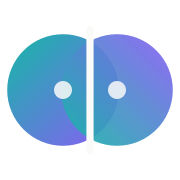
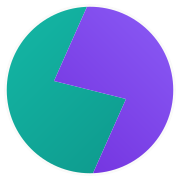
feat: replace the mark with a cracked coin
The old mark (two circles split by a straight bar) didn't say anything
about the product. A coin split by a jagged, lightning-bolt crack ties
"rachar" (to crack/split) directly to money, and stays legible down to
a 32px favicon. Wordmark is unchanged. Regenerated the derived
favicon, apple-touch-icon and OG image from the new mark.

diff --git a/src/components/Logo.tsx b/src/components/Logo.tsx
@@ -4,19 +4,26 @@ export function Logo({ className = 'h-8 w-auto' }: { className?: string }) {
       <defs>
         <linearGradient id="logo-g1" x1="0%" y1="0%" x2="100%" y2="100%">
           <stop offset="0%" stopColor="#14B8A6" />
-          <stop offset="100%" stopColor="#8B5CF6" />
+          <stop offset="100%" stopColor="#0D9488" />
         </linearGradient>
         <linearGradient id="logo-g2" x1="100%" y1="0%" x2="0%" y2="100%">
           <stop offset="0%" stopColor="#8B5CF6" />
-          <stop offset="100%" stopColor="#14B8A6" />
+          <stop offset="100%" stopColor="#6D28D9" />
         </linearGradient>
+        {/* A coin split by a jagged crack — "rachar" (to crack/split) a coin,
+            standing in for splitting a bill. Both halves share this zigzag
+            boundary so they tile the circle with no gap or overlap. */}
+        <clipPath id="logo-crack-left">
+          <path d="M0 0 H100 L60 90 L140 110 L100 188 H0 Z" />
+        </clipPath>
+        <clipPath id="logo-crack-right">
+          <path d="M200 0 H100 L60 90 L140 110 L100 188 H200 Z" />
+        </clipPath>
       </defs>
-      <g transform="translate(20,20)">
-        <circle cx="70" cy="80" r="62" fill="url(#logo-g1)" />
-        <circle cx="150" cy="80" r="62" fill="url(#logo-g2)" opacity="0.92" />
-        <rect x="106" y="8" width="8" height="144" rx="4" fill="var(--bg)" />
-        <circle cx="70" cy="80" r="10" fill="var(--bg)" opacity="0.85" />
-        <circle cx="150" cy="80" r="10" fill="var(--bg)" opacity="0.85" />
+      <g transform="translate(20,4)">
+        <circle cx="100" cy="100" r="88" fill="url(#logo-g1)" clipPath="url(#logo-crack-left)" />
+        <circle cx="100" cy="100" r="88" fill="url(#logo-g2)" clipPath="url(#logo-crack-right)" />
+        <circle cx="100" cy="100" r="88" fill="none" stroke="var(--bg)" strokeWidth="3" />
       </g>
       <text
         x="215"
